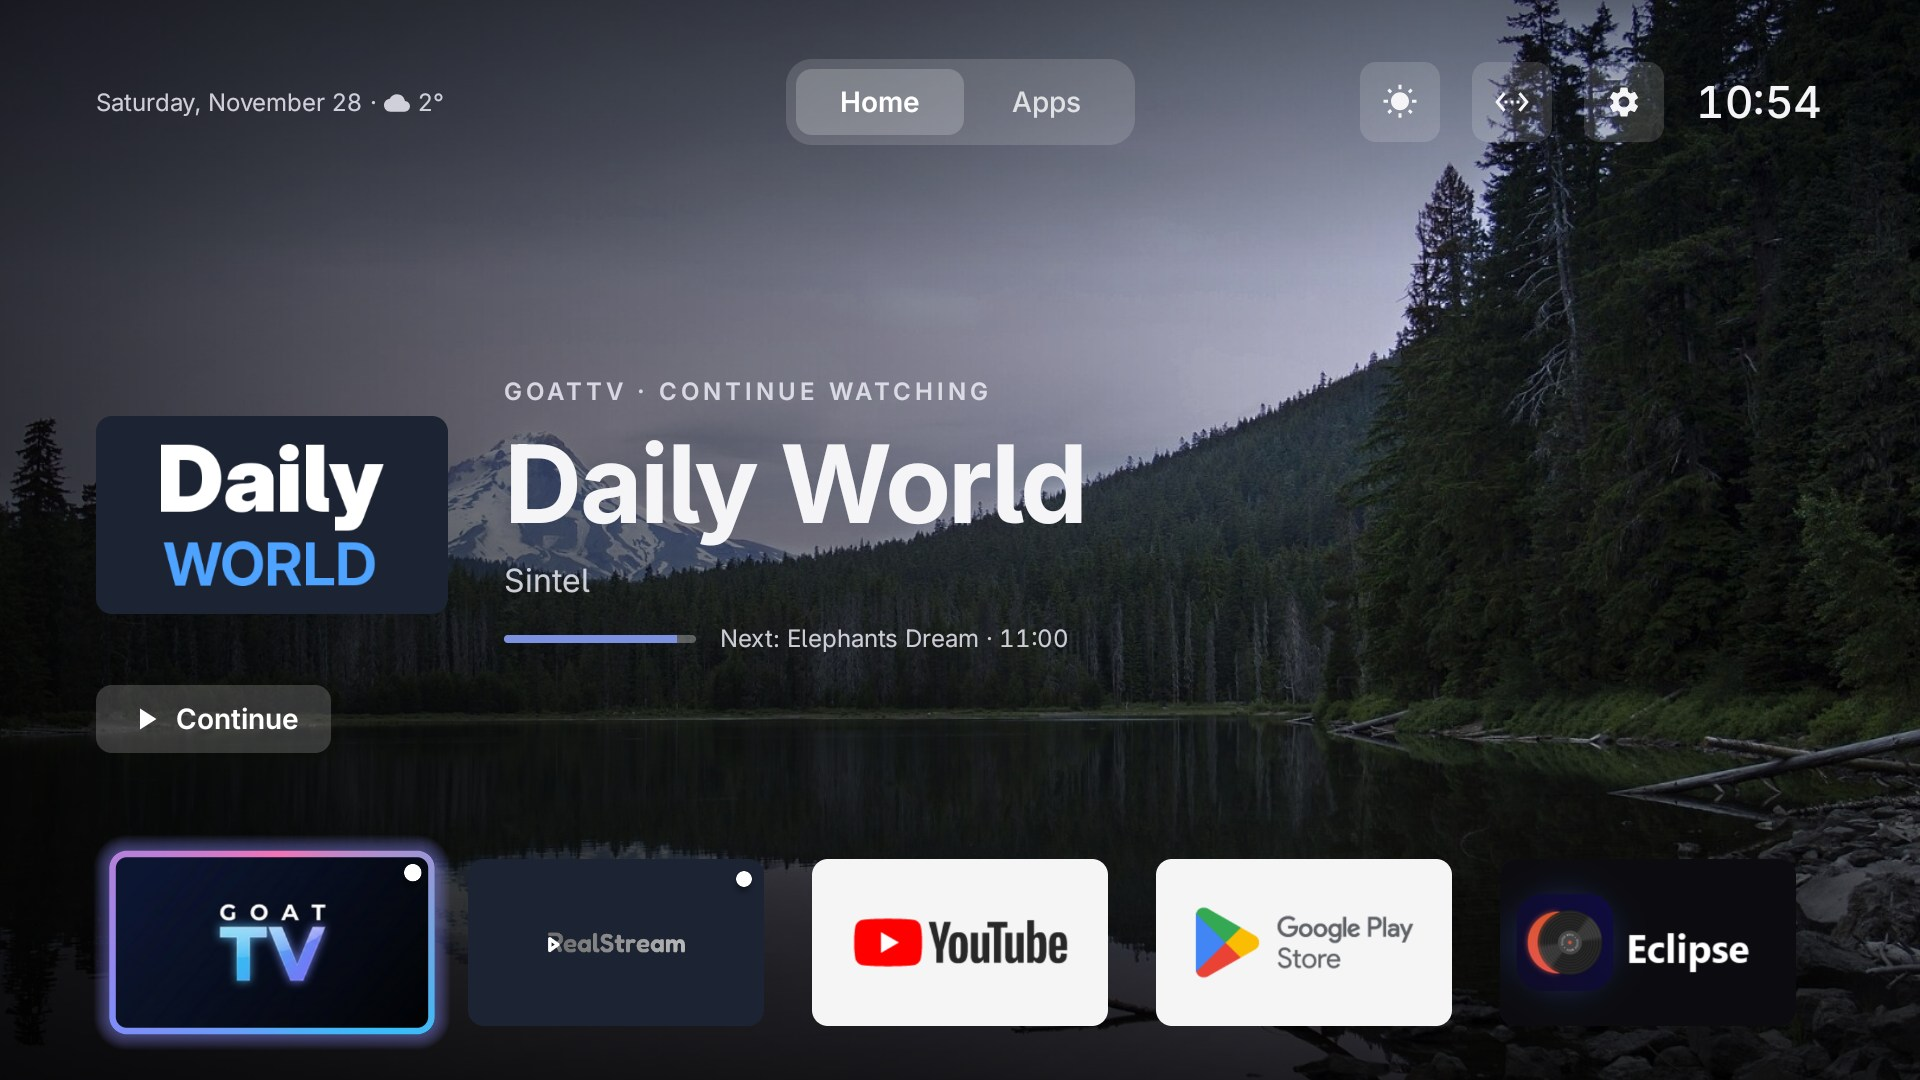
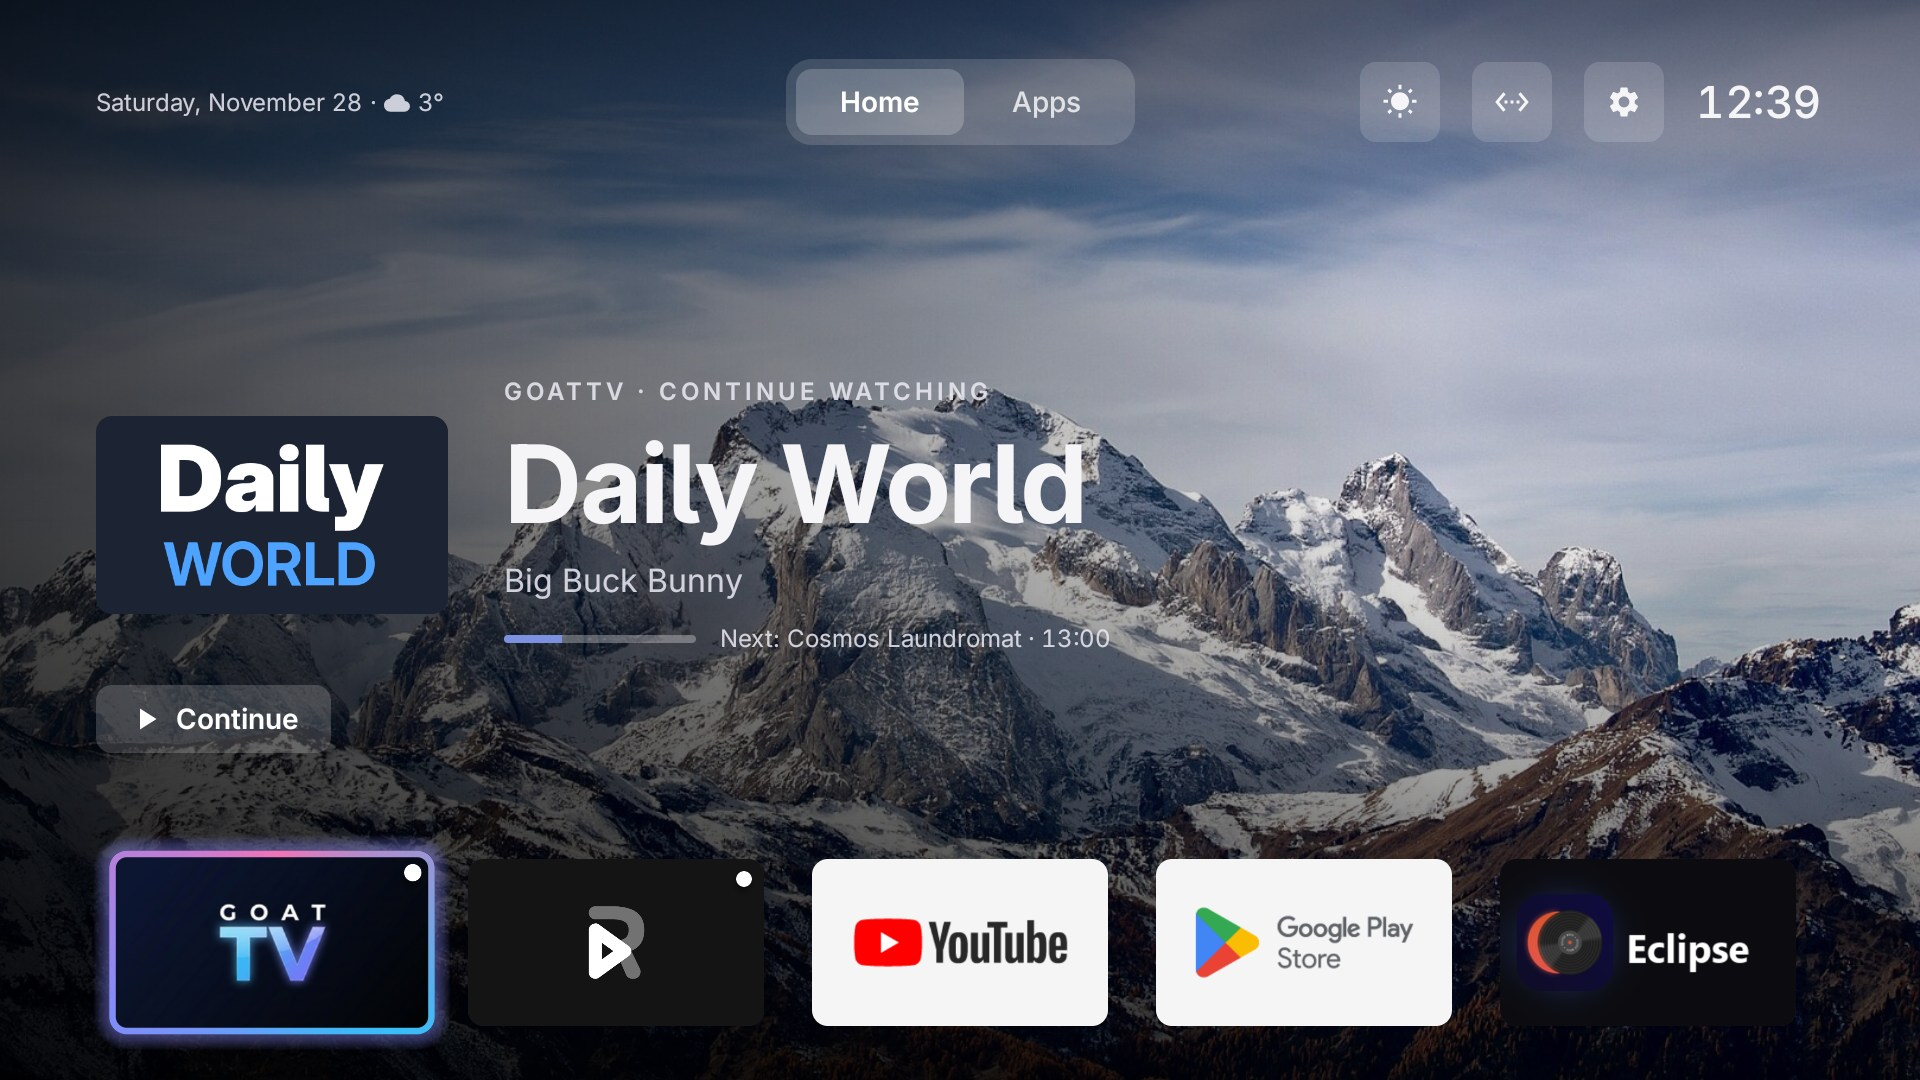
Retake README screenshots, add every Continue watching style
Adds Spotlight with what's next, row of cards, apps on the side and the
Change icon page; RealJF shows its new icon. Open movies only (Blender
Foundation films and Sita Sings the Blues); one CC0 wallpaper.

diff --git a/README.md b/README.md
@@ -6,16 +6,18 @@ A home screen for Android TV and Google TV.
 
 | | |
 |---|---|
-| ![Home, Android TV style, Spotlight](docs/screenshots/home-android-tv.jpg) | ![Home, Android TV style, carousel](docs/screenshots/home-android-tv-carousel.jpg) |
-| ![Home, tvOS style](docs/screenshots/home-tvos-day.jpg) | ![Home at night](docs/screenshots/home-tvos-night.jpg) |
+| ![Continue watching: Spotlight](docs/screenshots/home-android-tv.jpg) | ![Continue watching: Spotlight with what's next](docs/screenshots/home-android-tv-spotlight-next.jpg) |
+| ![Continue watching: row of cards](docs/screenshots/home-android-tv-cards.jpg) | ![Continue watching: apps on the side](docs/screenshots/home-android-tv-side.jpg) |
+| ![Continue watching: carousel](docs/screenshots/home-android-tv-carousel.jpg) | ![Home, tvOS style](docs/screenshots/home-tvos-day.jpg) |
+| ![Home, tvOS style at night](docs/screenshots/home-tvos-night.jpg) | ![Change icon: use the app's icon](docs/screenshots/change-icon.jpg) |
 | ![Settings](docs/screenshots/settings.jpg) | ![Settings, wallpaper](docs/screenshots/settings-wallpaper.jpg) |
 | ![Appearance, Android TV style](docs/screenshots/appearance-android-tv.jpg) | ![Appearance, tvOS style](docs/screenshots/appearance-tvos.jpg) |
 | ![Aurora focus effect](docs/screenshots/effect-aurora.jpg) | ![Floating ring focus effect](docs/screenshots/effect-floating-ring.jpg) |
 
-Continue watching from a Jellyfin client (RealJF) with Blender Foundation open movies (Big Buck Bunny, Sintel, Tears
-of Steel, Cosmos Laundromat; © Blender Foundation, CC BY 3.0/4.0, [blender.org](https://studio.blender.org/films/)),
-and from GoatTV with a demo playlist (made-up channels). Wallpapers (CC0, Wikimedia Commons): "Marmolada, Italy" by
-Marco Bonomo and "Lake Mountain Landscape" by Bonnie Moreland.
+Continue watching from a Jellyfin client (RealJF) with open movies: Big Buck Bunny, Sintel, Tears of Steel and Cosmos
+Laundromat (© Blender Foundation, CC BY 3.0/4.0, [blender.org](https://studio.blender.org/films/)) and Sita Sings the
+Blues (Nina Paley, CC0, [sitasingstheblues.com](https://www.sitasingstheblues.com/)); and from GoatTV with a demo
+playlist (made-up channels). Wallpaper: "Marmolada, Italy" by Marco Bonomo (CC0, Wikimedia Commons).
 
 ## Install
 
